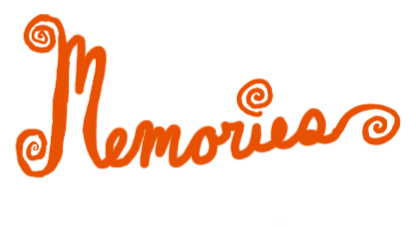
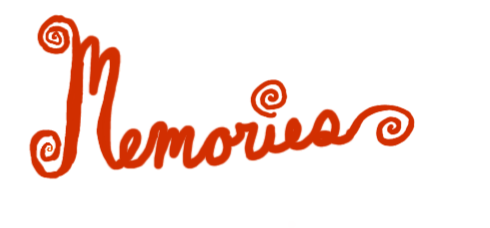
photos turn bedazzled when clicked

Changed region(s): [[0.0312, 0.0617, 0.9688, 0.8018]]

diff --git a/positive traits/positive_traits.html b/positive traits/positive_traits.html
@@ -9,9 +9,7 @@
 <body class = "body">
     <div class="container">
         <div class="things_to_love" onmouseover = "enlarge('things_to_love')" onmouseout = "shrink('things_to_love')">
-            <a href = "positive_traits.html">
-                <img src="../photos/thingstolove.png" id = "things_to_love" class = "menu"></img> 
-            </a>
+                <img src="../photos/things_to_love.png" id = "things_to_love" class = "menu"></img> 
         </div>
         <div class="memories" onmouseover = "enlarge('memories')" onmouseout = "shrink('memories')" >
             <a href = "../memories/memories.html">
@@ -20,14 +18,11 @@
         </div>
         <div class="happy_birthday" onmouseover = "enlarge('happy_birthday')" onmouseout = "shrink('happy_birthday')">
             <a href = "../happy birthday/moms_birthday.html">
-                <img src = "../photos/happybirthday.png" id = "happy_birthday" class = "menu"></img>
+                <img src = "../photos/happy_birthday.png" id = "happy_birthday" class = "menu"></img>
             </a>
         </div>
         <div class="text">
-            <p>
-
-            </p>
-            <p>
+            <p class = "paragraph">
                 hello 
                 I am writing I am writing very much 
             </p>

diff --git a/positive traits/src.js b/positive traits/src.js
@@ -1,9 +1,11 @@
 function enlarge(id) {
     elem = document.getElementById(id);
     elem.style.height = "100%";
+    elem.src = "../photos/" + id + "_bedazzled.png";
 }
 
 function shrink(id) {
     elem = document.getElementById(id);
     elem.style.height = "90%";
+    elem.src = "../photos/" + id + ".png";
 }

diff --git a/positive traits/styles.css b/positive traits/styles.css
@@ -32,4 +32,11 @@
     margin-left: auto;
     margin-right: auto;
   }
+
+  .paragraph {
+    width: 70%;
+    margin-top: 10%;
+    margin-left: 10%;
+    margin-right: auto;
+  }
   
